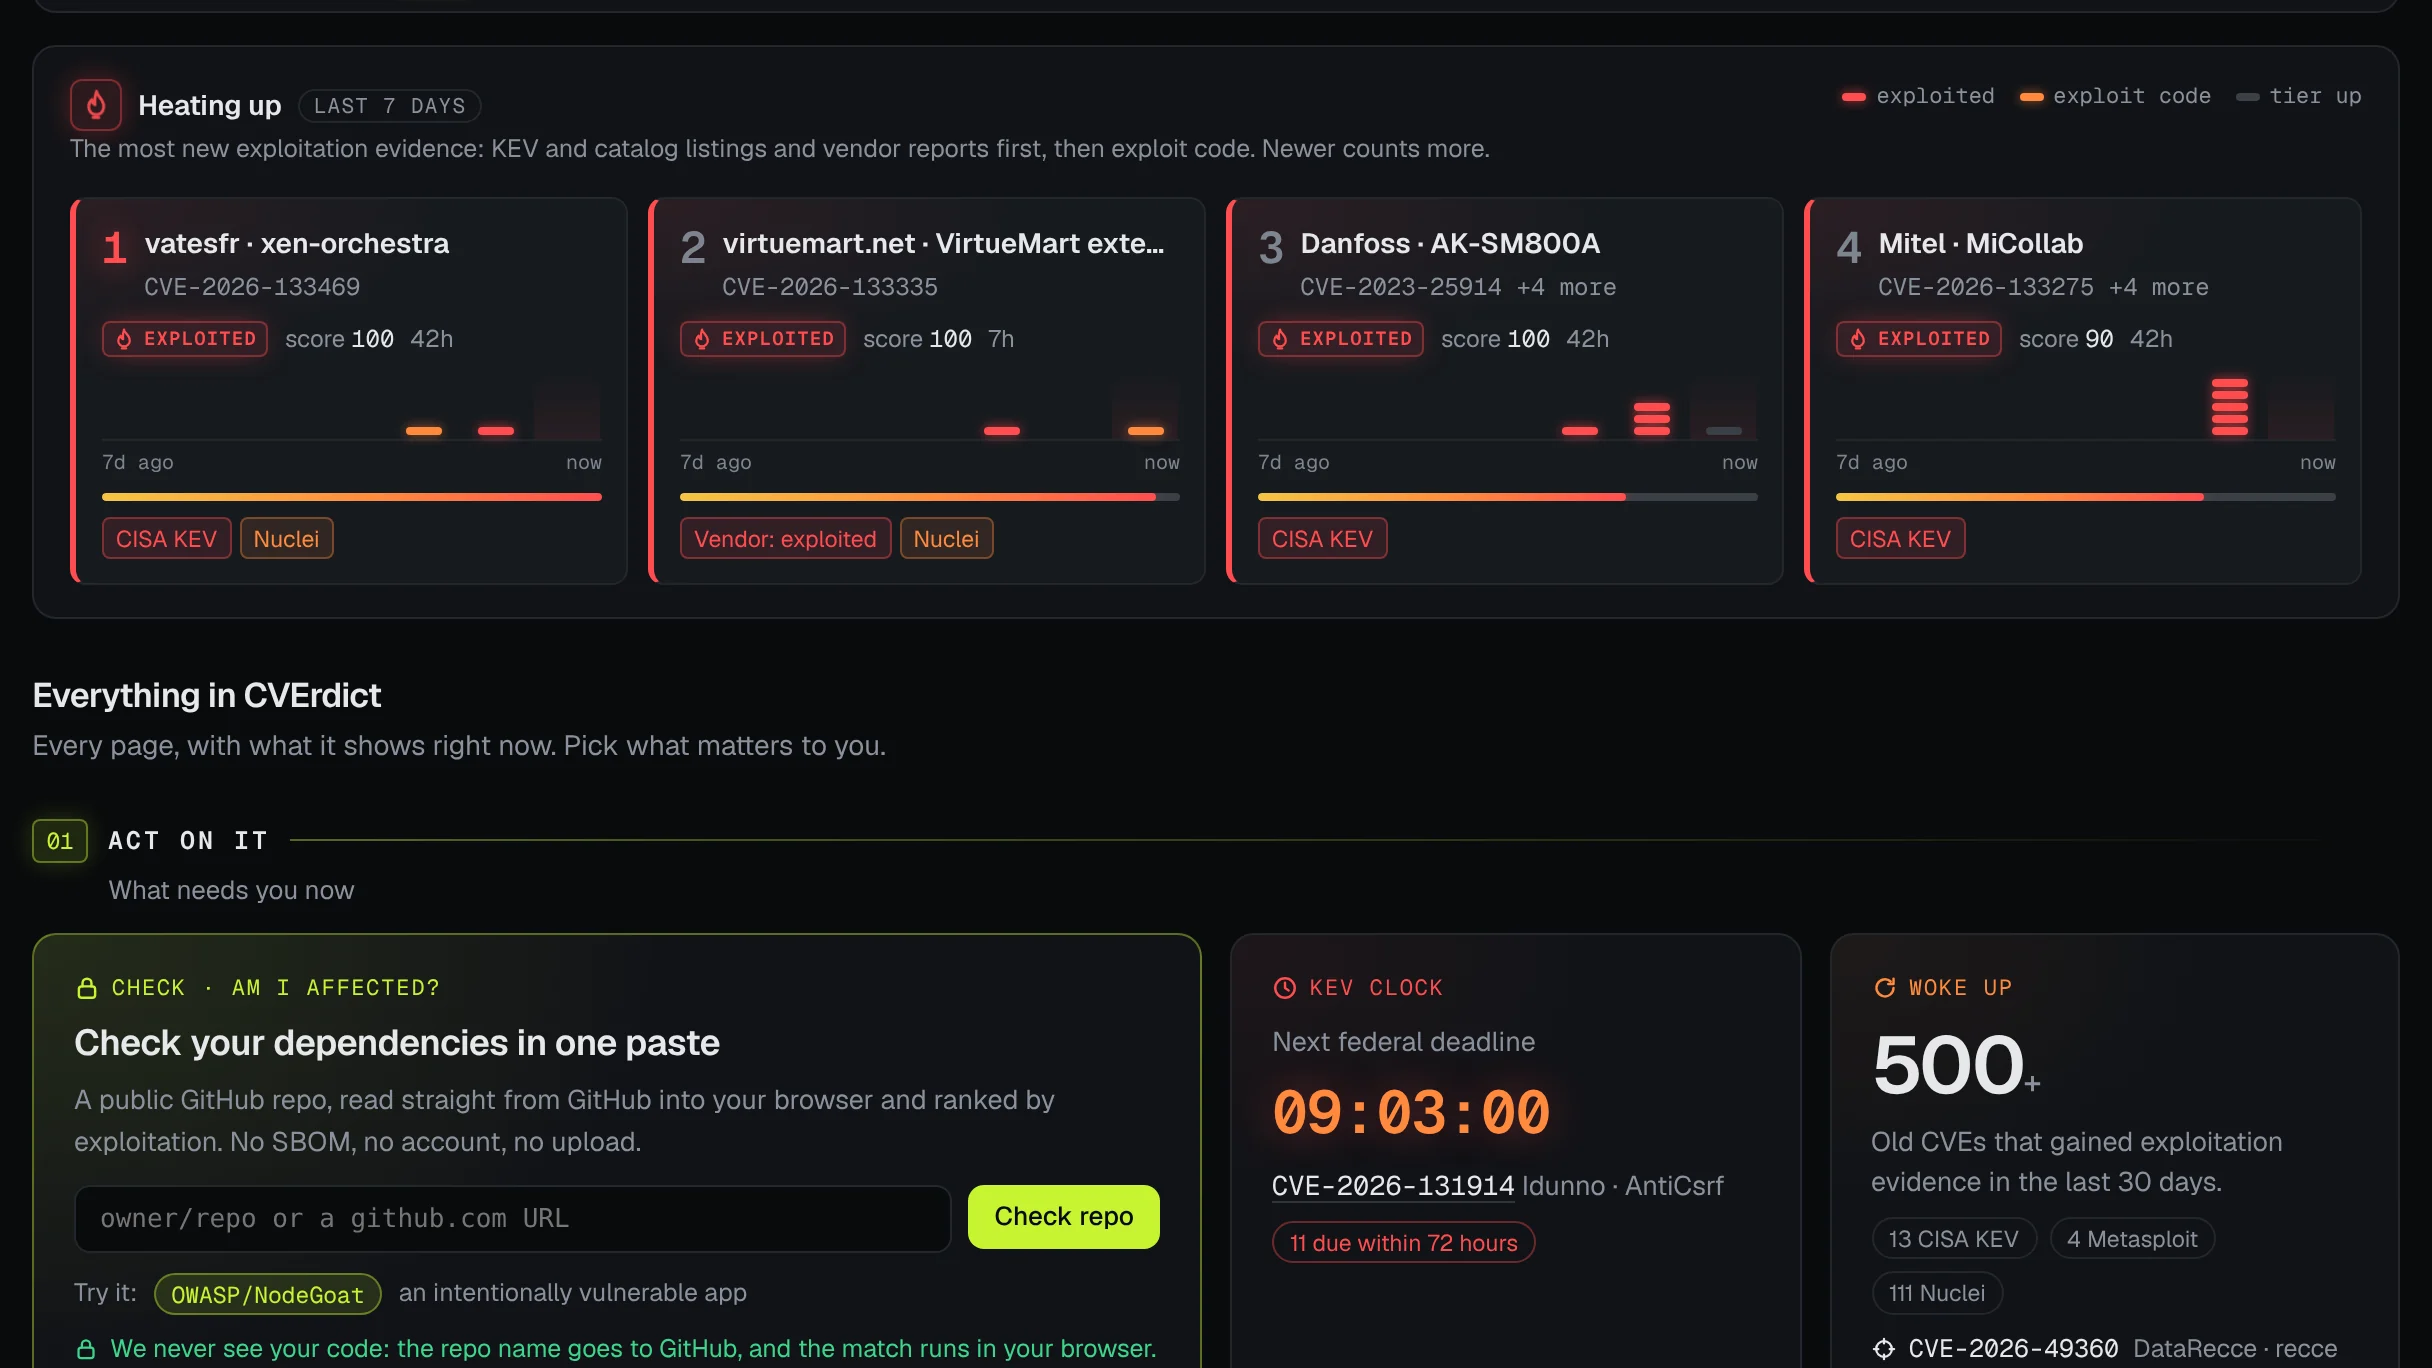
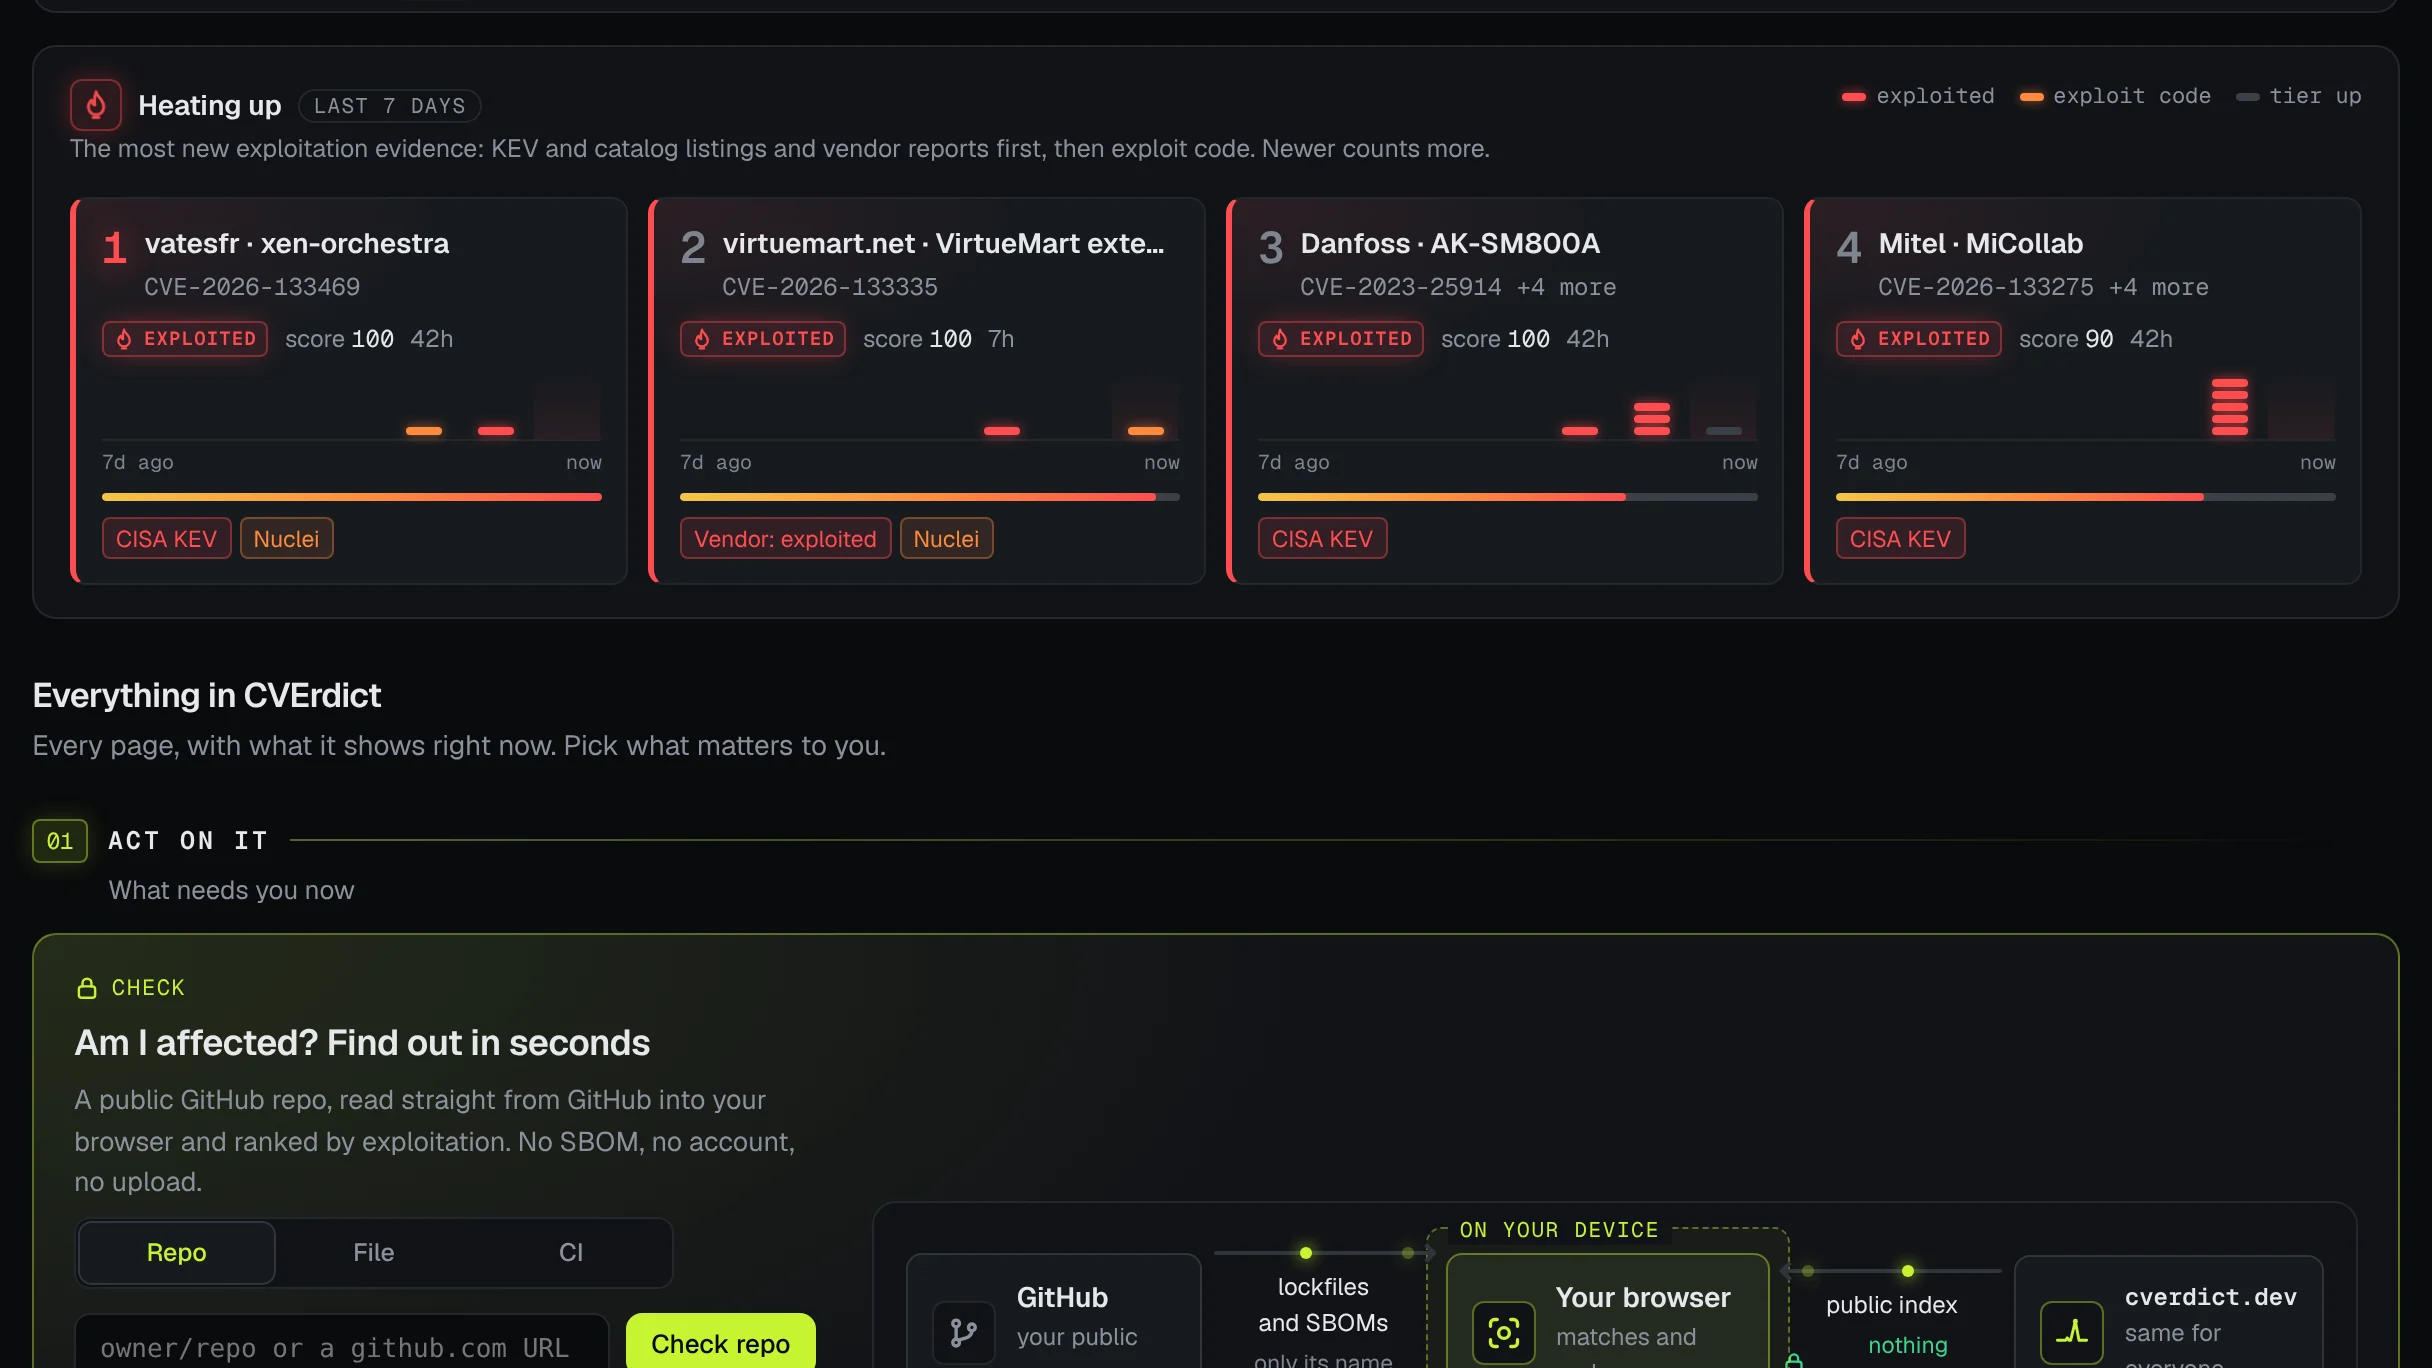
README: new homepage GIF and stills for Act on it and Build with it (#24)
- home-check-dark.gif: the Check card on Today switching Repo, File and CI, each with its flow diagram.
- screens/home.webp and screens/build.webp: Act on it and Build with it, a new row in On the site.
- screens/heat.webp re-recorded. tools/brand/screens.mjs records all three.

Claude-Session: https://claude.ai/code/session_014y4cbadidDdMh4wQrQPiJw

diff --git a/README.md b/README.md
@@ -281,6 +281,10 @@ all new CVEs against CVErdict's 2.4%. The Receipts page always shows the latest 
   <img alt="Twelve ways in, one verdict. No account, no tracking, no cookies, and keyboard first: j and k to move, slash to search, Ctrl K for everything. Today, at /: the noise meter, the waterfall, Heating up, a card for every page and the signal feed. Check, at /check: Am I affected? A public GitHub repo, a lockfile or an SBOM, matched in your browser. KEV Clock, at /kev: every KEV due date counting down, with ransomware and forensic flags. Woke Up, at /woke: old CVEs that gained exploitation evidence in the last 30 days. Trends, at /surge: the surge since 1999, KEV additions per 1,000 CVEs, Time to KEV and AI credits. Explore, at /explore: every CVE of the window, searchable and filterable by day. Patch days, at /batches: batches and bulk releases, and the few CVEs in each that matter. Receipts, at /receipts: flagged before KEV, next to CVSS 7 and EPSS 10%, every hit and miss. MCP, at /mcp: add the read-only MCP server to an AI agent in one command. API, at /feeds: Atom and iCalendar feeds, the open JSON files and llms.txt. Method, at /method: every chip, its points and the known blind spots. CVE pages, at /cve/ID: the verdict, the score chip by chip, what we could not see and Copy as ticket." src="docs/assets/surfaces-light.svg" width="100%">
 </picture>
 
+On Today, a card for every page shows what it holds right now. Check leads, with a tab for each way in and the flow of each:
+
+<img alt="Demo of the Check card on the Today page, in the dark theme. Am I affected? Find out in seconds, with tabs for Repo, File and CI. Repo is chosen: a box for a GitHub repo and a Check repo button, and beside it the flow: GitHub, your public repo, sends the lockfiles and SBOMs to your browser, which matches and ranks them inside a dashed box labelled On your device; only the repo name goes out; cverdict.dev, the same for everyone, sends the public index, and nothing goes back. Choosing File swaps in a drop zone, Drop a lockfile or SBOM, with a Choose a file button, and the flow changes: your file is read in place, never uploaded, and matched in your browser. Choosing CI shows the command npx -y cverdict check and an Add the GitHub Action button, and the flow changes again: your repo, private ones too, is read by the CVErdict Action in your runner, inside a box labelled In your CI, and the result is a job summary, PR annotations and a failing step on Exploited. Then back to Repo. Dots move along each wire toward the place the matching happens." src="docs/assets/home-check-dark.gif" width="100%">
+
 <table>
 <tr>
 <td width="50%" valign="top"><a href="https://cverdict.dev/cve/CVE-2026-119958"><img alt="The page of CVE-2026-119958, a Windows LDAP remote code execution bug in Microsoft Windows 10 Version 1607, part of the Nov 10 patch day. Tier Likely next, with the verdict: public proof of concept (2 vetted repos). Buttons for Copy as ticket, Copy link, JSON and cve.org. The evidence by family: exploit artifacts plus 20 for 2 PoC repos (2 vetted), severity plus 13 for Critical 9.8 network, CISA SSVC plus 14. The score dial reads 70 out of 100, and the arithmetic adds base 15, plus 20, 13, 8, 6 and 8." src="docs/assets/screens/cve.webp"></a><br><sub><b>CVE page.</b> The verdict, every chip and its points, and the sum.</sub></td>
@@ -295,8 +299,12 @@ all new CVEs against CVErdict's 2.4%. The Receipts page always shows the latest 
 <td valign="top"><a href="https://cverdict.dev/surge"><img alt="The Trends page, headed The Surge. A lime hero card: September and October 2026, 3.7 times as many CVEs as a year earlier; CISA KEV additions in the same months 1.7 times, 79 against 47; under it a sparkline of CVEs per month from December 2023 to November 2026 climbing steeply at the end. Beside it four tiles: 2026 so far 105,126, plus 148% on the same days of 2025; busiest month ever 17,049, October 2026; 25% of all CVEs since 1999 published in 2026 alone; 321 added to KEV this year, about 0.31% of the volume. Below, section 01, The flood: CVEs per month, with the range buttons and a folded Options and filters row." src="docs/assets/screens/surge.webp"></a><br><sub><b>Trends.</b> The surge up front, then the story in six numbered sections.</sub></td>
 </tr>
 <tr>
-<td valign="top"><a href="https://cverdict.dev/"><img alt="Heating up, on the Today page, headed by a flame and a Last 7 days chip, with a key: exploited, exploit code, tier up. The four vendors with the most new exploitation evidence in the last 7 days, each card with a 7-day strip of glowing ticks, one per piece of evidence by day (red for exploitation reports, orange for exploit code), and a heat meter against the hottest. 1, vatesfr xen-orchestra, CVE-2026-133469, Exploited, score 100, CISA KEV and Nuclei. 2, virtuemart.net VirtueMart extension, CVE-2026-133335, Exploited, score 100, a vendor report of exploitation and Nuclei. 3, Danfoss AK-SM800A, CVE-2023-25914 and 4 more, Exploited, score 100, CISA KEV, five red ticks on one day. 4, Mitel MiCollab, CVE-2026-133275 and 4 more, Exploited, score 90, CISA KEV, six red ticks on one day. Below, Everything in CVErdict, every page with what it shows right now, starting with 01 Act on it, What needs you now: a lime Check card with a box for a GitHub repo, a Try it button for OWASP/NodeGoat and the line We never see your code; a KEV Clock card counting down to the next federal deadline, 09:03:01 for CVE-2026-131914 in Idunno AntiCsrf, with 11 due within 72 hours; and a Woke Up card, 500 and more old CVEs that gained exploitation evidence in the last 30 days, 13 of them listed in CISA KEV." src="docs/assets/screens/heat.webp"></a><br><sub><b>Heating up.</b> This week's new exploitation evidence by vendor, then a live map of every page.</sub></td>
+<td valign="top"><a href="https://cverdict.dev/"><img alt="Heating up, on the Today page, headed by a flame and a Last 7 days chip, with a key: exploited, exploit code, tier up. The four vendors with the most new exploitation evidence in the last 7 days, each card with a 7-day strip of glowing ticks, one per piece of evidence by day (red for exploitation reports, orange for exploit code), and a heat meter against the hottest. 1, vatesfr xen-orchestra, CVE-2026-133469, Exploited, score 100, CISA KEV and Nuclei. 2, virtuemart.net VirtueMart extension, CVE-2026-133335, Exploited, score 100, a vendor report of exploitation and Nuclei. 3, Danfoss AK-SM800A, CVE-2023-25914 and 4 more, Exploited, score 100, CISA KEV, five red ticks on one day. 4, Mitel MiCollab, CVE-2026-133275 and 4 more, Exploited, score 90, CISA KEV, six red ticks on one day. Below, Everything in CVErdict, every page with what it shows right now, starting with 01 Act on it, What needs you now, and the top of the Check card: Am I affected? Find out in seconds, with tabs for Repo, File and CI and the start of its flow diagram." src="docs/assets/screens/heat.webp"></a><br><sub><b>Heating up.</b> This week's new exploitation evidence by vendor.</sub></td>
 <td valign="top"><a href="https://cverdict.dev/surge"><img alt="Section 03 of The Surge, How fast CISA lists, Time to KEV: days from a CVE's publication to its CISA KEV listing, by the year CISA listed it, as stacked bars from before publication through same day, a week, a month, a year and later. Medians: 12 days in 2023, 21.5 in 2024, 26 in 2025 and 11 in 2026 so far; listed within 7 days: 40%, 39%, 37% and 43%. The line under it reads: 2026 so far: CISA listed 321 CVEs, 43% of them within a week of publication, with a median of 11 days. That is up from 37% in 2025. Below, the start of section 04, The last 30 days." src="docs/assets/screens/time-to-kev.webp"></a><br><sub><b>Time to KEV.</b> Grouped by the year listed, so no year looks faster than it is.</sub></td>
+</tr>
+<tr>
+<td valign="top"><a href="https://cverdict.dev/"><img alt="Act on it, What needs you now, on the Today page. A full-width lime Check card: Am I affected? Find out in seconds. A public GitHub repo, read straight from GitHub into your browser and ranked by exploitation. No SBOM, no account, no upload. Tabs for Repo, File and CI, with Repo chosen; a box for owner/repo or a github.com URL and a Check repo button; Try it: OWASP/NodeGoat, an intentionally vulnerable app; We never see your code: the repo name goes to GitHub, and the match runs in your browser; and Don't take our word for it: open your browser's network tab while it runs. Public files come in from cverdict.dev and GitHub, and nothing goes back. Beside it, the flow: GitHub, your public repo, sends lockfiles and SBOMs, only its name going out, to your browser, which matches and ranks them inside a dashed box labelled On your device; cverdict.dev, the same for everyone, sends the public index, and nothing goes back; the result is your dependencies with CVEs, most exploited first. Below, the KEV Clock card counting down to the next federal deadline, 09:02:58 for CVE-2026-131914 in Idunno AntiCsrf, and the Woke Up card: 500 and more old CVEs that gained exploitation evidence in the last 30 days, with 13 CISA KEV, 4 Metasploit and 111 Nuclei." src="docs/assets/screens/home.webp"></a><br><sub><b>Act on it.</b> Check up front, with the flow of each way in, then the KEV deadlines and what woke up.</sub></td>
+<td valign="top"><a href="https://cverdict.dev/"><img alt="Build with it, Bring the verdicts into your tools, on the Today page. The purple MCP card, for AI agents: Verdicts in your agent, one command. Tabs for Claude, Codex, Cursor, Copilot, Gemini and Antigravity, with Claude chosen: Claude Code, in a terminal, claude mcp add cverdict -- npx -y cverdict-mcp. Then a question, Which KEV deadlines are due this week?, and the answer of the kev_due tool with that day's data: 13 in the next 7 days, soonest first, CVE-2026-131914 in Idunno AntiCsrf and CVE-2026-132165 in Drupal Core, both due Nov 27. The green API card: Open data, no key; the same files this site reads, refreshed hourly; scores are CC0; chips for signal.json, kev.json, cve/00 to ff.json, feeds/*.xml, kev-due.ics and llms.txt; and a terminal, updated 9m ago, running curl -s cverdict.dev/data/v1/meta.json, with its answer: generated_at 2026-11-27T14:47:28.807Z, window_published 16853, window_passed 361 and kev_total 1805. The yellow Method card: 51 reason chips; each score is a plain sum of them, from a base of 15, with bars for CISA KEV +75, Metasploit +34, Nuclei template +30, EPSS of 10% or more +27 and PoC on GitHub +20." src="docs/assets/screens/build.webp"></a><br><sub><b>Build with it.</b> MCP for your agent, the open API and how a score is made.</sub></td>
 </tr>
 </table>
 
